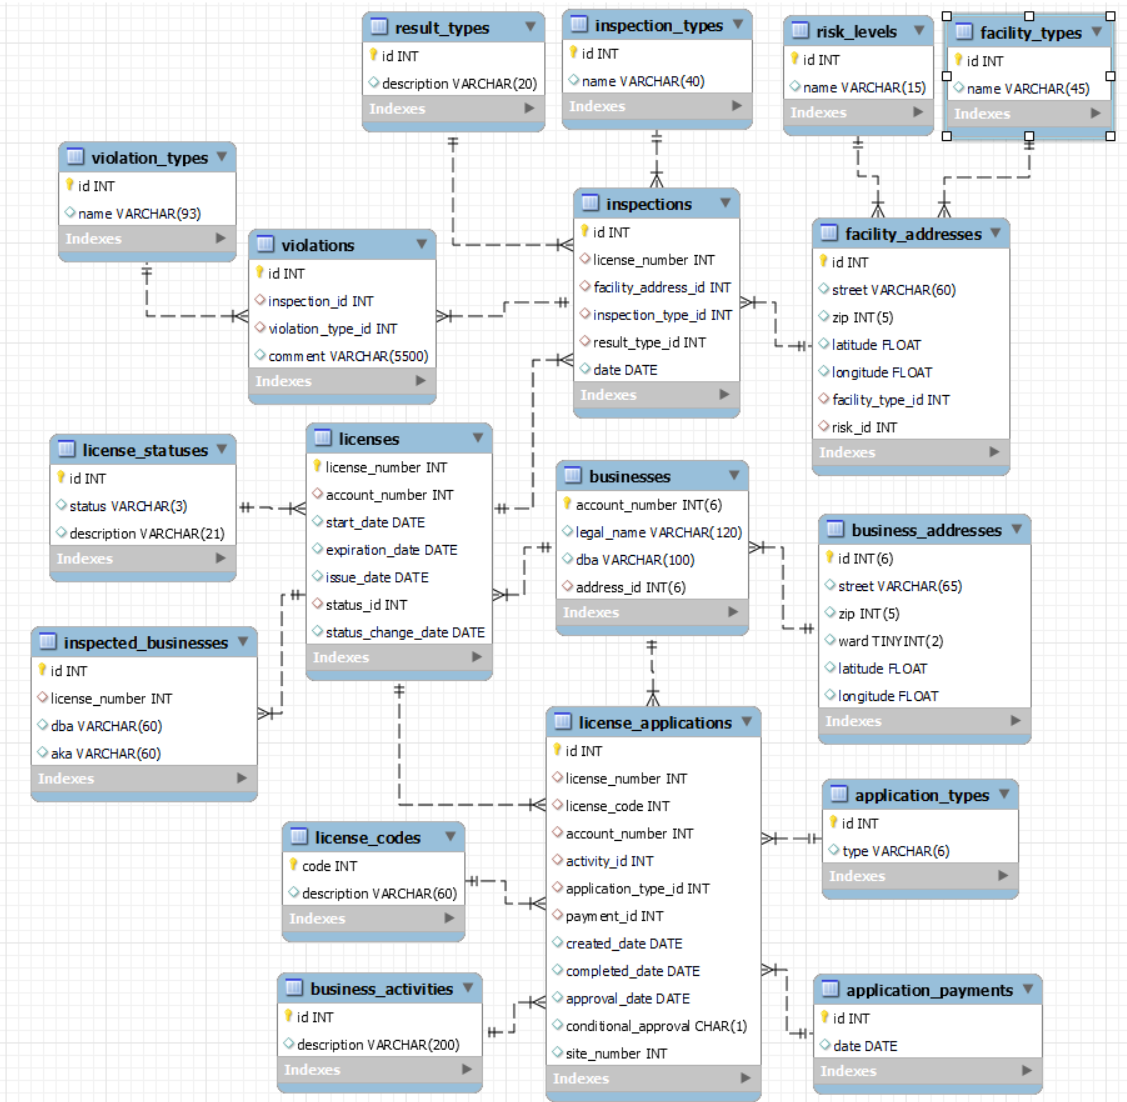
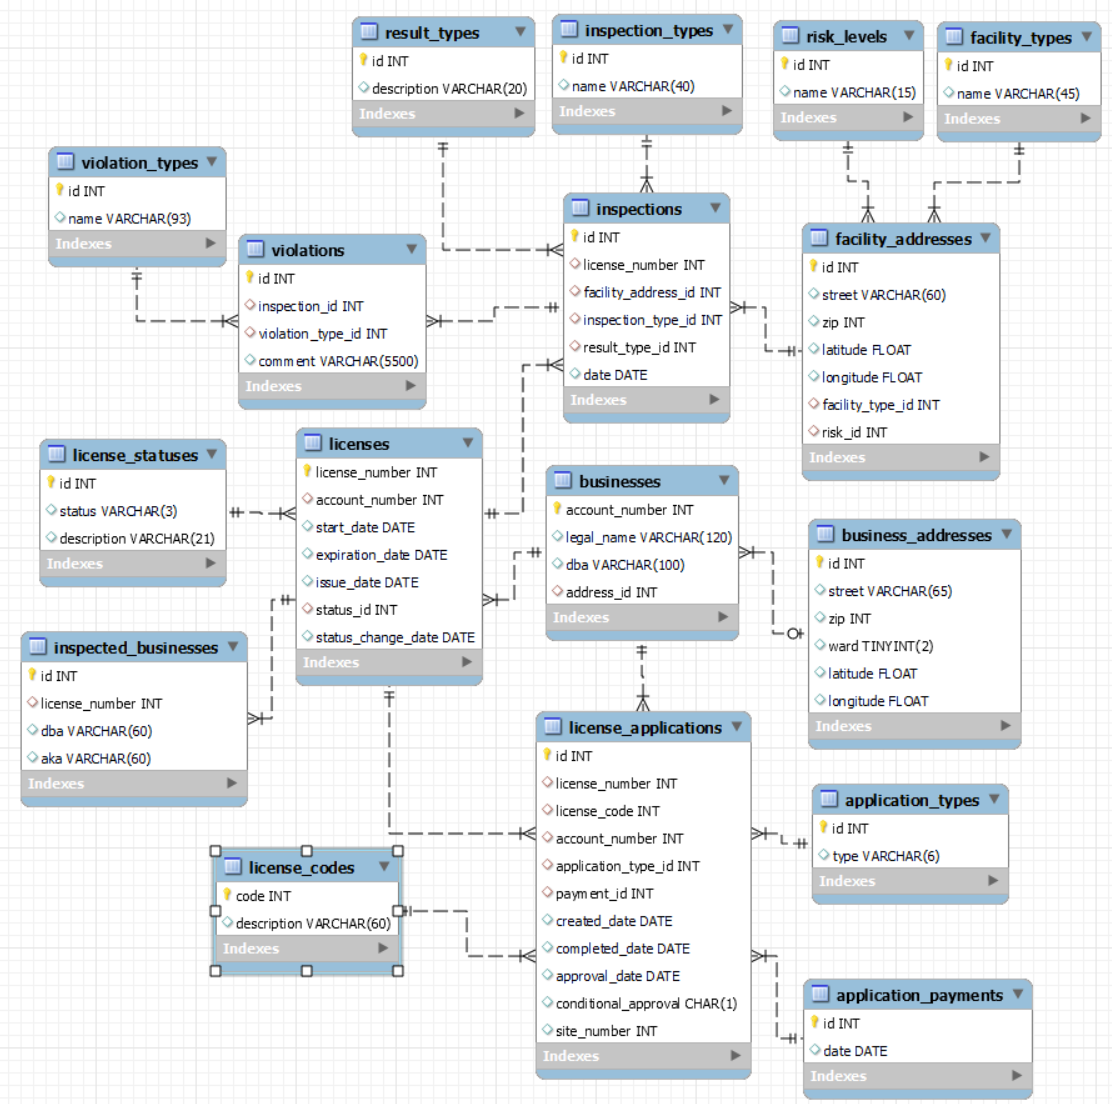
refactor: remove business_activity table and references

Changed region(s): [[0.0, 0.0, 1.0, 1.0], [0.6727, 0.8639, 0.9478, 1.0]]

diff --git a/dataloader.py b/dataloader.py
@@ -103,7 +103,7 @@ class BusinessLicenses:
                 "LICENSE TERM START DATE": "license_term_start_date",
                 "LICENSE TERM EXPIRATION DATE": "license_term_expiration_date",
                 "LICENSE APPROVED FOR ISSUANCE": "license_approved_for_issuance_date",
-                "DATE ISSUED": "date_issued",
+                "DATE ISSUED": "issue_date",
                 "LICENSE STATUS": "license_status",
                 "LICENSE STATUS CHANGE DATE": "license_status_change_date",
                 "SSA": "ssa",
@@ -122,6 +122,7 @@ class BusinessLicenses:
     def remove_non_chicago_entries(self, data: pandas.DataFrame) -> pandas.DataFrame:
         """Remove rows without a ward number."""
         data = data.dropna(subset=["ward"])
+        data = data[data["state"] == "IL"]
         # Schiller Park is a suburb and not in ward 3,
         # but a couple entries list it as such
         return data[data["city"] != "SCHILLER PARK"]
@@ -226,37 +227,6 @@ class BusinessLicenses:
             )
 
     @time_it()
-    def insert_business_activity_data(self, data: pandas.DataFrame):
-        """Populate `business_activities` table."""
-        # Data is unnormalized with multiple entries per row
-        # Both `business_activity_id` and `business_activity` are delimited with ` | `
-        # Parse them into unique idividual entries
-        unique_activities = {}
-        data = (
-            data[["business_activity_id", "business_activity"]]
-            .dropna(subset=["business_activity_id"])
-            .values.tolist()
-        )
-        for datum in data:
-            ids = datum[0].split(" | ")
-            descriptions = datum[1].split(" | ")
-            for id_, description in zip(ids, descriptions):
-                id_ = int(id_)
-                if id_ not in unique_activities:
-                    unique_activities[id_] = description
-        # Sort and convert to list of tuples
-        activities = [
-            (id_, unique_activities[id_])
-            for id_ in sorted(list(unique_activities.keys()))
-        ]
-        with ChiBased() as db:
-            db.insert_many(
-                "business_activities",
-                ["id", "description"],
-                activities,
-            )
-
-    @time_it()
     def insert_application_type_data(self, data: pandas.DataFrame):
         """Populate `application_types` table."""
         # Get unique values
@@ -275,7 +245,6 @@ class BusinessLicenses:
                 "license_number",
                 "license_code",
                 "account_number",
-                "business_activity_id",
                 "application_type",  # Get type_id from `application_types` table
                 "payment_date",  # Concurrently populate `application_payments` table so generated `payment_id` stays consistent
                 "application_created_date",
@@ -315,7 +284,6 @@ class BusinessLicenses:
                     "license_number",
                     "license_code",
                     "account_number",
-                    "activity_id",
                     "application_type_id",
                     "created_date",
                     "completed_date",
@@ -356,7 +324,7 @@ class BusinessLicenses:
                 "account_number",
                 "license_term_start_date",
                 "license_term_expiration_date",
-                "date_issued",
+                "issue_date",
                 "license_status",
                 "license_status_change_date",
             ]
